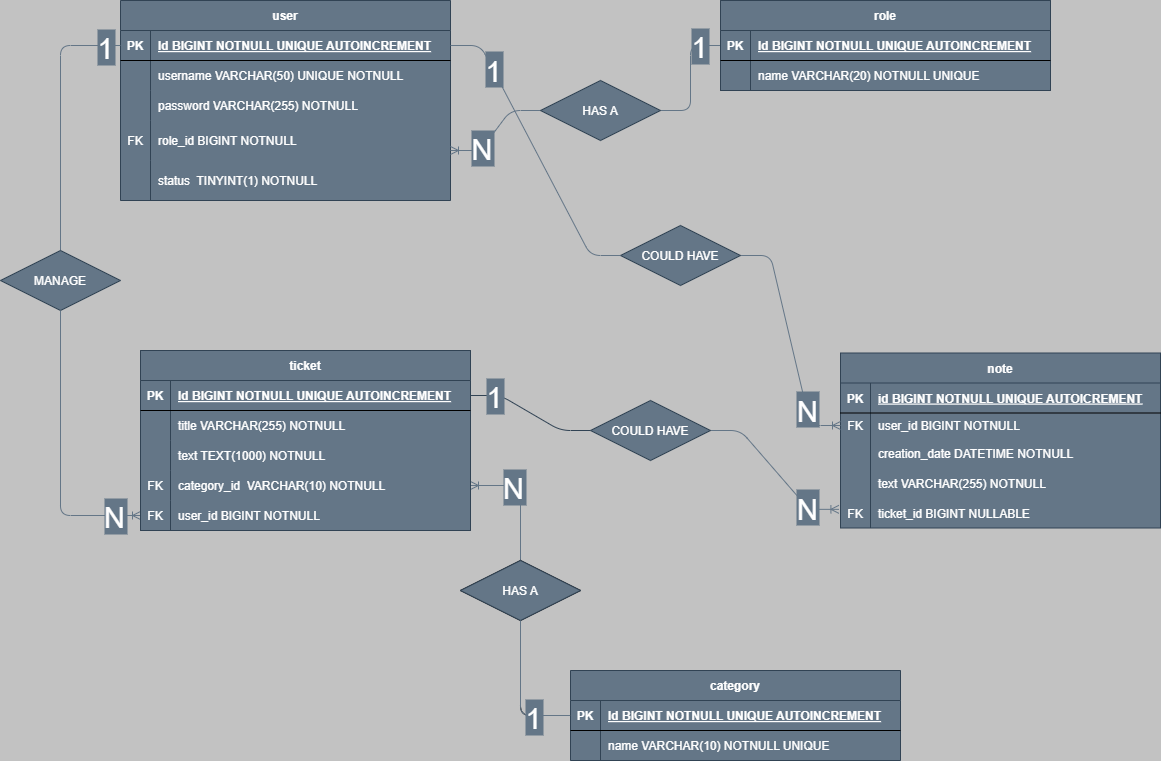
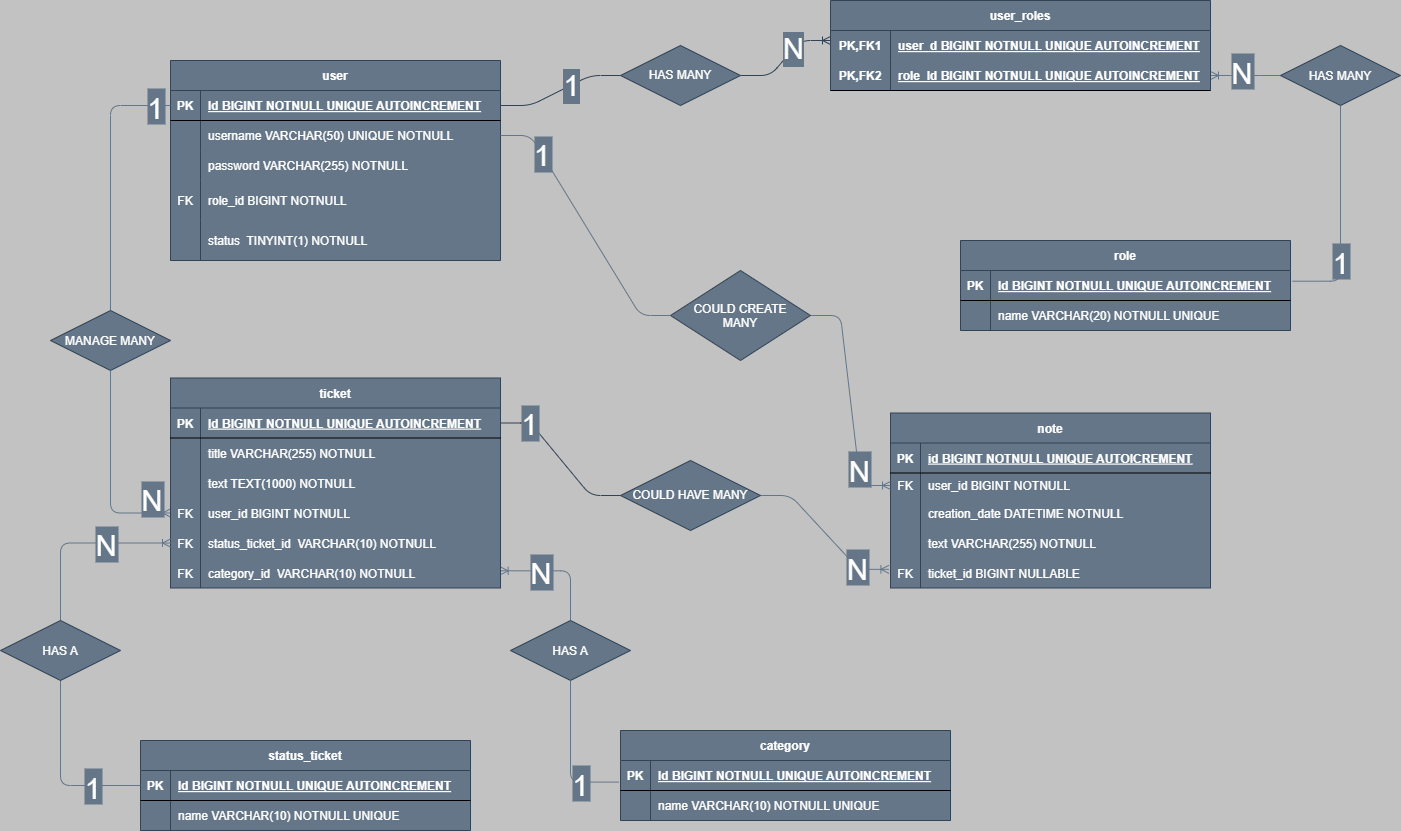
ADD: category for tickets; EDIT: ex Category is now StatusTicket; correct username visualization in createNote

diff --git a/src/main/resources/templates/tickets/create.html b/src/main/resources/templates/tickets/create.html
@@ -18,7 +18,7 @@
           th:object="${ticket}"
           method="post"
         >
-          <div class="col-md-4">
+          <div class="col-md-6">
             <label for="title" class="form-label">Title</label>
             <input
               type="text"
@@ -36,34 +36,34 @@
               </ul>
             </div>
           </div>
-          <div class="col-md-4">
-            <label for="category" class="form-label">Category</label>
+          <div class="col-md-6">
+            <label for="statusTicket" class="form-label">Status Ticket</label>
             <select
-              name="category"
-              id="category"
-              th:field="*{category}"
+              name="statusTicket"
+              id="statusTicket"
+              th:field="*{statusTicket}"
               class="form-select"
               th:errorClass="is-invalid"
             >
               <option
-                th:each="category : ${categories}"
-                th:value="${category.id}"
-                th:text="${category.name}"
+                th:each="status : ${statusTicket}"
+                th:value="${status.id}"
+                th:text="${status.name}"
               ></option>
             </select>
             <div
               class="invalid-feedback"
-              th:if="${#fields.hasErrors('category')}"
+              th:if="${#fields.hasErrors('statusTicket')}"
             >
               <ul>
                 <li
-                  th:each="err : ${#fields.errors('category')}"
+                  th:each="err : ${#fields.errors('statusTicket')}"
                   th:text="${err}"
                 ></li>
               </ul>
             </div>
           </div>
-          <div class="col-md-4">
+          <div class="col-md-6">
             <label for="user" class="form-label">User</label>
             <select
               name="user"
@@ -82,6 +82,33 @@
               <ul>
                 <li
                   th:each="err : ${#fields.errors('user')}"
+                  th:text="${err}"
+                ></li>
+              </ul>
+            </div>
+          </div>
+          <div class="col-md-6">
+            <label for="category" class="form-label">Category</label>
+            <select
+              name="category"
+              id="category"
+              th:field="*{category}"
+              class="form-select"
+              th:errorClass="is-invalid"
+            >
+              <option
+                th:each="cat : ${categories}"
+                th:value="${cat.id}"
+                th:text="${cat.name}"
+              ></option>
+            </select>
+            <div
+              class="invalid-feedback"
+              th:if="${#fields.hasErrors('category')}"
+            >
+              <ul>
+                <li
+                  th:each="err : ${#fields.errors('category')}"
                   th:text="${err}"
                 ></li>
               </ul>

diff --git a/src/main/resources/templates/tickets/edit.html b/src/main/resources/templates/tickets/edit.html
@@ -18,7 +18,7 @@
           th:object="${ticket}"
           method="post"
         >
-          <div class="col-md-4">
+          <div class="col-md-6">
             <label for="title" class="form-label">Title</label>
             <input
               type="text"
@@ -36,34 +36,34 @@
               </ul>
             </div>
           </div>
-          <div class="col-md-4">
-            <label for="category" class="form-label">Category</label>
+          <div class="col-md-6">
+            <label for="StatusTicket" class="form-label">Status Ticket</label>
             <select
-              name="category"
-              id="category"
-              th:field="*{category}"
+              name="StatusTicket"
+              id="StatusTicket"
+              th:field="*{StatusTicket}"
               class="form-select"
               th:errorClass="is-invalid"
             >
               <option
-                th:each="category : ${categories}"
-                th:value="${category.id}"
-                th:text="${category.name}"
+                th:each="status : ${statusTicket}"
+                th:value="${status.id}"
+                th:text="${status.name}"
               ></option>
             </select>
             <div
               class="invalid-feedback"
-              th:if="${#fields.hasErrors('category')}"
+              th:if="${#fields.hasErrors('statusTicket')}"
             >
               <ul>
                 <li
-                  th:each="err : ${#fields.errors('category')}"
+                  th:each="err : ${#fields.errors('statusTicket')}"
                   th:text="${err}"
                 ></li>
               </ul>
             </div>
           </div>
-          <div class="col-md-4">
+          <div class="col-md-6">
             <label for="user" class="form-label">User</label>
             <select
               name="user"
@@ -82,6 +82,33 @@
               <ul>
                 <li
                   th:each="err : ${#fields.errors('user')}"
+                  th:text="${err}"
+                ></li>
+              </ul>
+            </div>
+          </div>
+          <div class="col-md-6">
+            <label for="category" class="form-label">Category</label>
+            <select
+              name="category"
+              id="category"
+              th:field="*{category}"
+              class="form-select"
+              th:errorClass="is-invalid"
+            >
+              <option
+                th:each="cat : ${categories}"
+                th:value="${cat.id}"
+                th:text="${cat.name}"
+              ></option>
+            </select>
+            <div
+              class="invalid-feedback"
+              th:if="${#fields.hasErrors('category')}"
+            >
+              <ul>
+                <li
+                  th:each="err : ${#fields.errors('category')}"
                   th:text="${err}"
                 ></li>
               </ul>

diff --git a/src/main/resources/templates/tickets/index.html b/src/main/resources/templates/tickets/index.html
@@ -38,14 +38,16 @@
                   <th>Title</th>
                   <th>Status</th>
                   <th>User</th>
+                  <th>Category</th>
                   <th></th>
                 </tr>
               </thead>
               <tbody>
                 <tr th:each="ticket : ${tickets}">
                   <td th:text="${ticket.title}"></td>
-                  <td th:text="${ticket.category.name}"></td>
+                  <td th:text="${ticket.statusTicket.name}"></td>
                   <td th:text="${ticket.user.username}"></td>
+                  <td th:text="${ticket.category.name}"></td>
                   <td>
                     <a
                       class="btn btn-primary"

diff --git a/src/main/resources/templates/notes/create.html b/src/main/resources/templates/notes/create.html
@@ -22,13 +22,16 @@
             <label for="user" class="form-label">User</label>
             <input
               type="text"
+              class="form-control"
+              th:value="*{user.username}"
+              readonly
+            />
+            <input
               id="user"
               name="user"
-              class="form-control"
-              th:errorClass="is-invalid"
+              type="hidden"
               th:field="*{user.id}"
-              th:text="*{user.username}"
-              readonly
+              th:errorClass="is-invalid"
             />
             <div th:if="${#fields.hasErrors('user')}" class="invalid-feedback">
               <ul>

diff --git a/src/main/resources/templates/tickets/show.html b/src/main/resources/templates/tickets/show.html
@@ -15,10 +15,12 @@
             <dl th:object="${ticket}">
               <dt>Title</dt>
               <dd th:text="*{title}"></dd>
-              <dt>Category</dt>
-              <dd th:text="*{category.name}"></dd>
+              <dt>Status Ticket</dt>
+              <dd th:text="*{statusTicket.name}"></dd>
               <dt>User</dt>
               <dd th:text="*{user.username}"></dd>
+              <dt>Category</dt>
+              <dd th:text="*{category.name}"></dd>
               <dt>Text</dt>
               <dd th:text="*{text}"></dd>
               <dt>Notes</dt>

diff --git a/src/main/java/org/lessons/ticketplatform/controller/TicketController.java b/src/main/java/org/lessons/ticketplatform/controller/TicketController.java
@@ -3,7 +3,9 @@ package org.lessons.ticketplatform.controller;
 import java.util.List;
 import java.util.Optional;
 
+import org.lessons.ticketplatform.model.Category;
 import org.lessons.ticketplatform.model.Ticket;
+import org.lessons.ticketplatform.repository.StatusTicketRepository;
 import org.lessons.ticketplatform.repository.CategoryRepository;
 import org.lessons.ticketplatform.repository.RoleRepository;
 import org.lessons.ticketplatform.repository.TicketRepository;
@@ -35,6 +37,9 @@ public class TicketController {
 
   @Autowired
   UserRepository userRepo;
+
+  @Autowired
+  StatusTicketRepository statusTicketRepository;
 
   @Autowired
   CategoryRepository categoryRepo;
@@ -78,6 +83,7 @@ public class TicketController {
 
     model.addAttribute("ticket", new Ticket());
     model.addAttribute("users", userRepo.findByRolesNameAndStatus("USER", true));
+    model.addAttribute("statusTicket", statusTicketRepository.findAll());
     model.addAttribute("categories", categoryRepo.findAll());
 
     return "tickets/create";
@@ -107,6 +113,7 @@ public class TicketController {
     if (byId.isPresent()) {
       model.addAttribute("ticket", byId.get());
       model.addAttribute("users", userRepo.findByRolesNameAndStatus("USER", true));
+      model.addAttribute("statusTicket", statusTicketRepository.findAll());
       model.addAttribute("categories", categoryRepo.findAll());
     }
 

diff --git a/src/main/java/org/lessons/ticketplatform/model/StatusTicket.java b/src/main/java/org/lessons/ticketplatform/model/StatusTicket.java
@@ -2,6 +2,7 @@ package org.lessons.ticketplatform.model;
 
 import java.util.List;
 
+import jakarta.persistence.Column;
 import jakarta.persistence.Entity;
 import jakarta.persistence.GeneratedValue;
 import jakarta.persistence.GenerationType;
@@ -10,17 +11,18 @@ import jakarta.persistence.OneToMany;
 import jakarta.validation.constraints.NotBlank;
 
 @Entity
-public class Category {
+public class StatusTicket {
 
   @Id
   @GeneratedValue(strategy = GenerationType.IDENTITY)
   private Long id;
 
-  @NotBlank(message = "Category name cannot be blank")
+  @NotBlank
+  @Column(unique = true, length = 30)
   private String name;
 
-  @OneToMany(mappedBy = "category")
-  private List<Ticket> tikcets;
+  @OneToMany(mappedBy = "statusTicket")
+  private List<Ticket> ticket;
 
   public Long getId() {
     return id;
@@ -38,12 +40,11 @@ public class Category {
     this.name = name;
   }
 
-  public List<Ticket> getTikcets() {
-    return tikcets;
+  public List<Ticket> getTicket() {
+    return ticket;
   }
 
-  public void setTikcets(List<Ticket> tikcets) {
-    this.tikcets = tikcets;
+  public void setTicket(List<Ticket> ticket) {
+    this.ticket = ticket;
   }
-
 }

diff --git a/src/main/java/org/lessons/ticketplatform/model/Ticket.java b/src/main/java/org/lessons/ticketplatform/model/Ticket.java
@@ -28,8 +28,8 @@ public class Ticket {
   private String text;
 
   @ManyToOne(fetch = FetchType.EAGER)
-  @JoinColumn(name = "category_id", nullable = false)
-  private Category category;
+  @JoinColumn(name = "statusTicket_id", nullable = false)
+  private StatusTicket statusTicket;
 
   @ManyToOne(fetch = FetchType.EAGER)
   @JoinColumn(name = "user_id", nullable = false)
@@ -37,6 +37,9 @@ public class Ticket {
 
   @OneToMany(mappedBy = "ticket")
   private List<Note> notes;
+
+  @ManyToOne
+  private Category category;
 
   public Long getId() {
     return id;
@@ -78,6 +81,14 @@ public class Ticket {
     this.user = user;
   }
 
+  public StatusTicket getStatusTicket() {
+    return statusTicket;
+  }
+
+  public void setStatusTicket(StatusTicket statusTicket) {
+    this.statusTicket = statusTicket;
+  }
+
   public Category getCategory() {
     return category;
   }
@@ -85,4 +96,5 @@ public class Ticket {
   public void setCategory(Category category) {
     this.category = category;
   }
+
 }

diff --git a/src/main/java/org/lessons/ticketplatform/repository/StatusTicketRepository.java b/src/main/java/org/lessons/ticketplatform/repository/StatusTicketRepository.java
@@ -1,0 +1,8 @@
+package org.lessons.ticketplatform.repository;
+
+import org.lessons.ticketplatform.model.StatusTicket;
+import org.springframework.data.jpa.repository.JpaRepository;
+
+public interface StatusTicketRepository extends JpaRepository<StatusTicket, Long> {
+
+}
